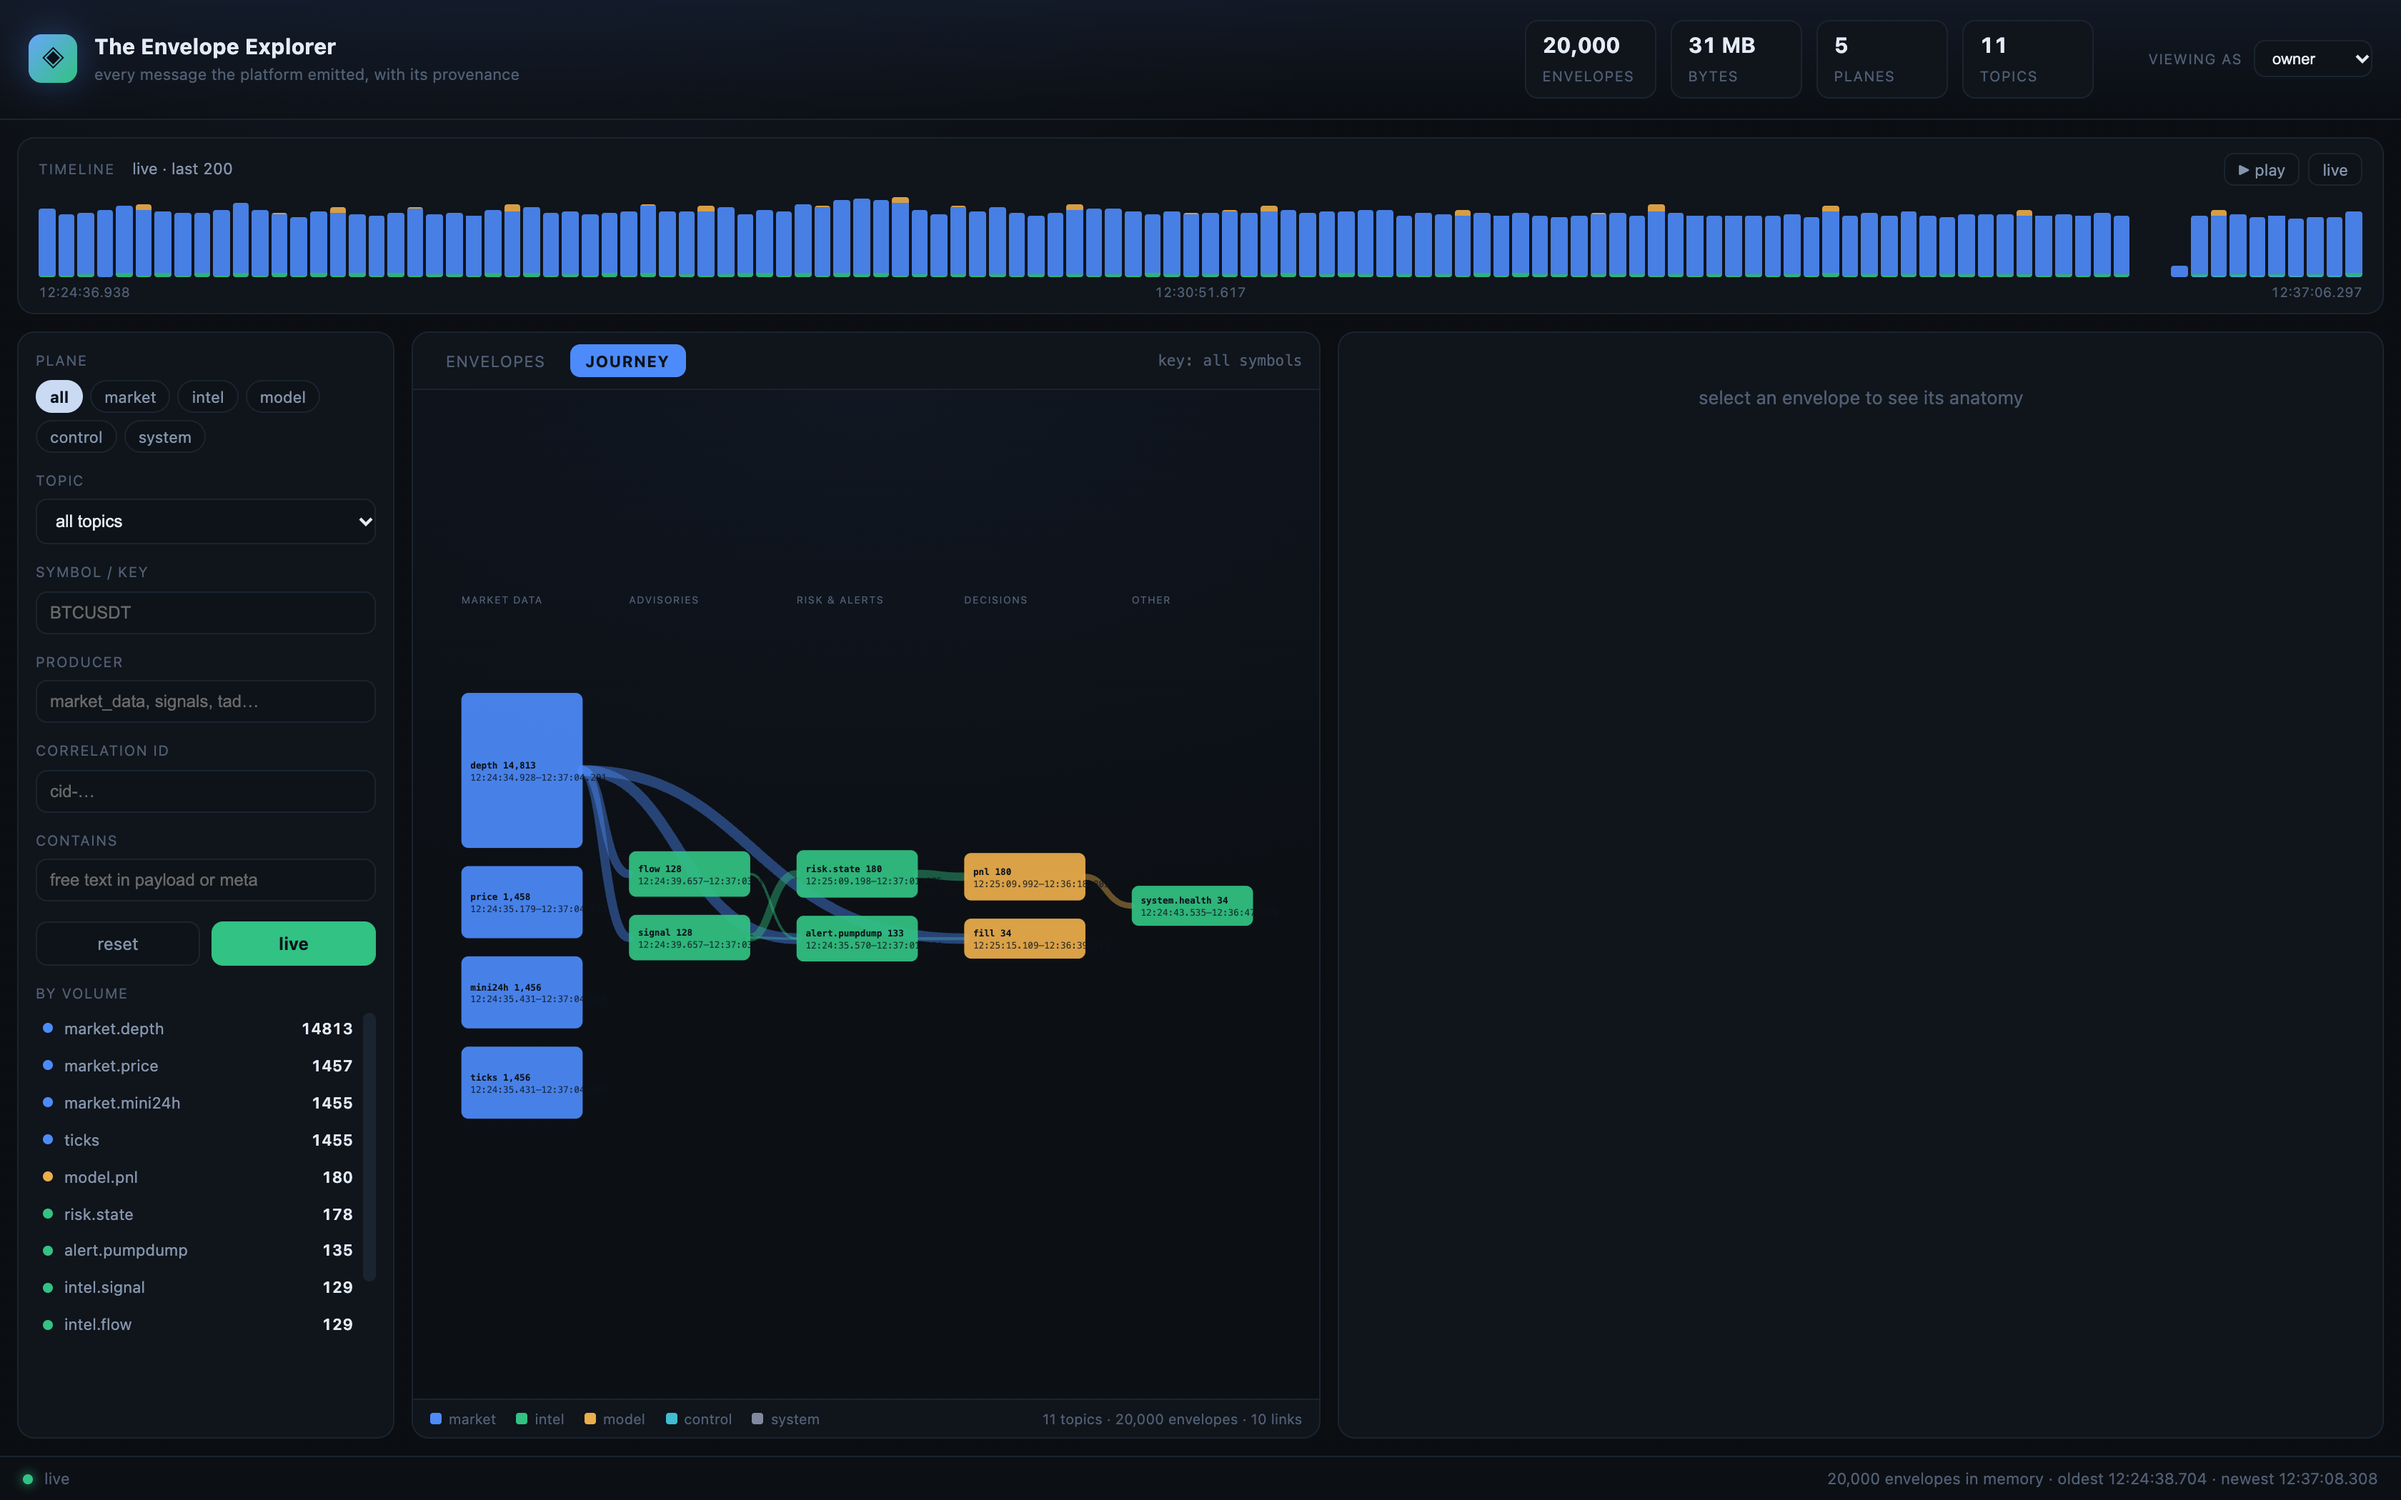
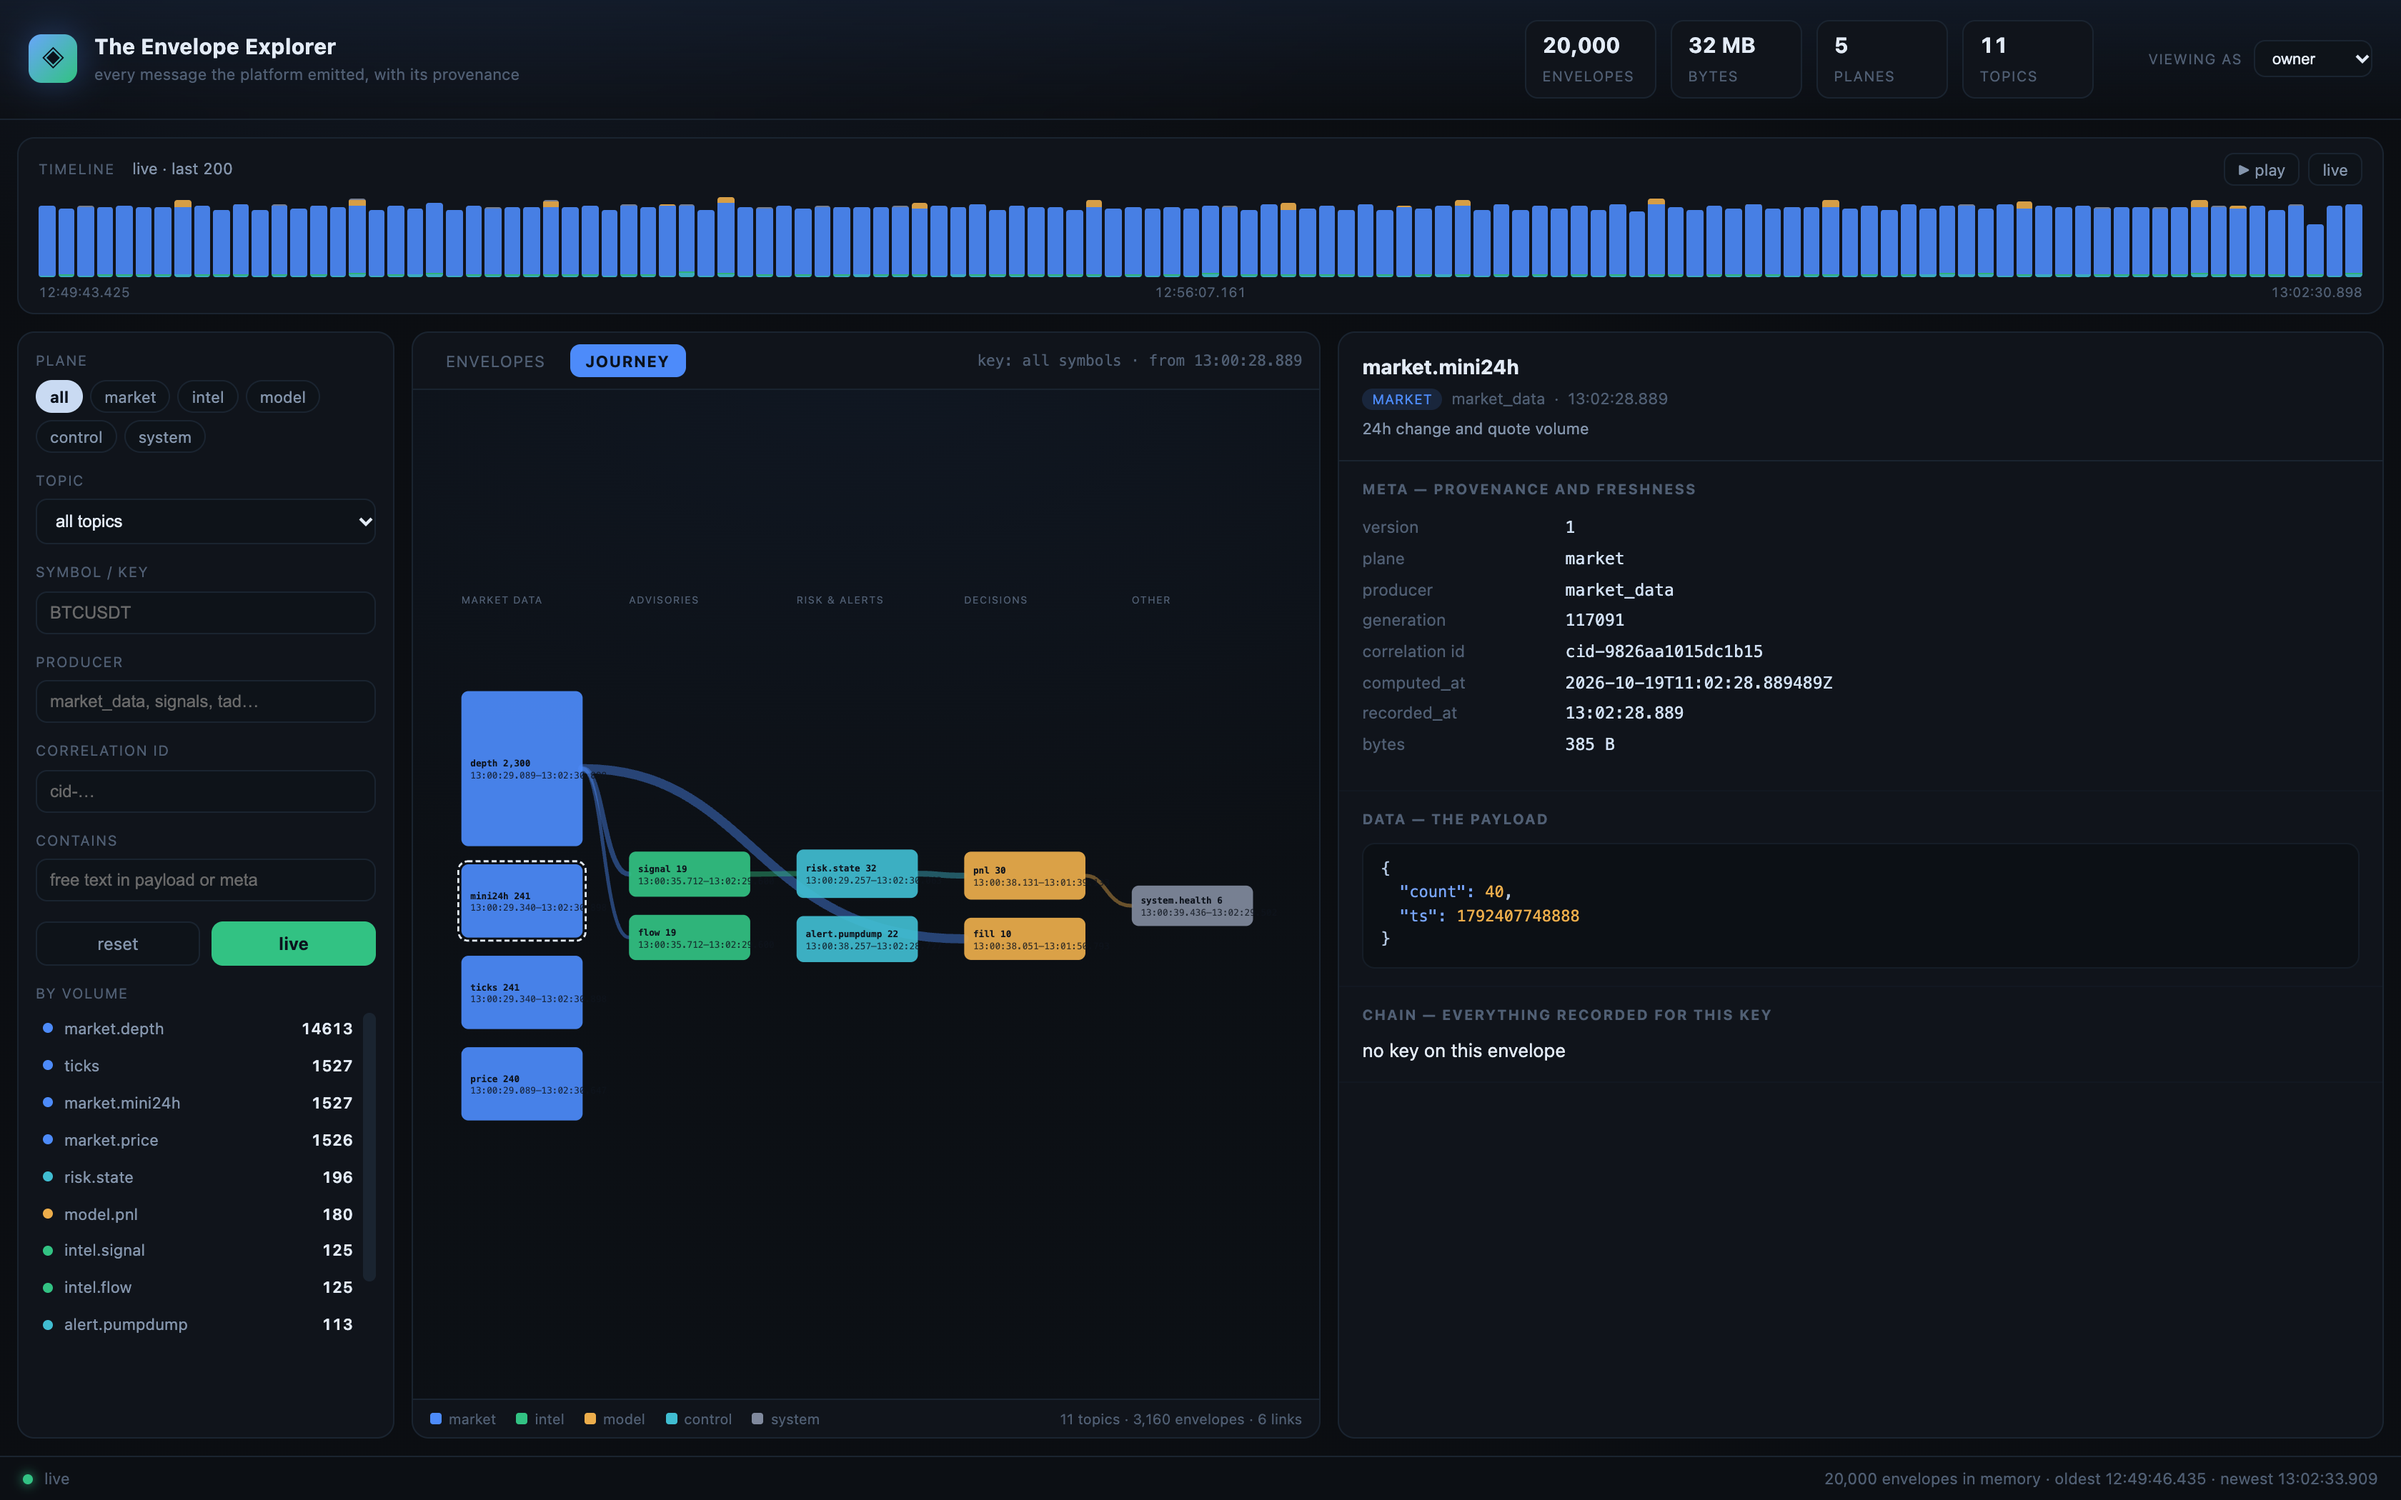
Explorer: the journey starts at the selected point
- /api/flow accepts id= and opens its window at that envelope: two minutes of
  lead-in for context, then five minutes forward on the envelope's symbol.
- The anchor is marked on the node that contains it, and the UI rings it.
- Selecting an envelope re-anchors the flow; double-clicking a node drills
  forward from that node.
- Fixes the earlier gap where the ring compared against a node id that is the
  newest member rather than the anchor itself.

diff --git a/scalp5/core/cmd/envelopeapi/static/app.js b/scalp5/core/cmd/envelopeapi/static/app.js
@@ -219,7 +219,7 @@ async function select(id) {
     } else {
       $("chain").textContent = "no key on this envelope";
     }
-    if (state.view === "journey") renderJourney(d.key || state.journeyKey);
+    if (state.view === "journey") renderJourney(d.id);
   } catch (e) {
     $("detail").innerHTML = '<div class="empty">could not load this envelope</div>';
   }
@@ -351,20 +351,28 @@ const STAGE_LABEL = ["market data", "advisories", "risk & alerts", "decisions", 
 
 /* The flow view: stages as columns, topics as boxes sized by volume, links as
    ribbons whose width is the number of correlations observed. */
-async function renderJourney(keyHint) {
-  const key = keyHint || state.journeyKey || state.key || "";
+/* A journey starts at a point: the selected envelope becomes the anchor, the
+   window opens from its timestamp and runs forward on its symbol. */
+async function renderJourney(anchorId) {
   const params = new URLSearchParams();
-  if (key) params.set("key", key);
-  if (state.from) params.set("from", String(state.from));
-  if (state.to) params.set("to", String(state.to));
+  const anchor = anchorId || state.sel;
+  if (anchor) {
+    params.set("id", String(anchor));
+  } else {
+    if (state.journeyKey) params.set("key", state.journeyKey);
+    if (state.from) params.set("from", String(state.from));
+    if (state.to) params.set("to", String(state.to));
+  }
   const d = await (await fetch("/api/flow?" + params.toString(), { cache: "no-store" })).json();
-  state.journeyKey = key;
-  $("journeyKey").textContent = "key: " + (key || "all symbols");
+  state.journeyKey = d.key || "";
+  const stamp = anchor ? " · from " + fmtTime(d.from) : " · last 5 minutes";
+  $("journeyKey").textContent = "key: " + (d.key || "all symbols") + stamp;
   drawFlow(d);
 }
 
 function drawFlow(d) {
   const nodes = d.nodes || [], links = d.links || [];
+  const anchorIds = new Set(nodes.filter((n) => n.id === d.anchor).map((n) => n.id));
   const svg = $("journeySvg");
   if (!nodes.length) {
     svg.innerHTML = '<text x="450" y="320" text-anchor="middle" fill="#5a6b80" font-size="12">no traffic in this window</text>';
@@ -421,9 +429,21 @@ function drawFlow(d) {
   const stageSvg = stages.map((st, ci) =>
     `<text class="jstage" x="${padX + ci * colW + 14}" y="${padTop - 26}">${STAGE_LABEL[st]}</text>`).join("");
 
-  svg.innerHTML = stageSvg + linkSvg + nodeSvg;
+  // the anchor node — the point the journey starts from — is ringed
+  const anchorRing = Object.values(pos)
+    .filter((p) => p.node.anchor)
+    .map((p) => `<rect x="${p.x - 3}" y="${p.y - 3}" width="${p.w + 6}" height="${p.h + 6}"
+      rx="9" fill="none" stroke="#e6eef8" stroke-width="2" stroke-dasharray="5 3"/>`).join("");
+
+  svg.innerHTML = stageSvg + linkSvg + nodeSvg + anchorRing;
   svg.querySelectorAll(".jnode").forEach((el) => {
     el.onclick = () => select(Number(el.dataset.id));
+  });
+  svg.querySelectorAll(".jnode").forEach((el) => {
+    el.addEventListener("dblclick", (ev) => {
+      ev.stopPropagation();
+      renderJourney(Number(el.dataset.id));
+    });
   });
   const totalCount = nodes.reduce((a, n) => a + n.count, 0);
   $("journeyLegend").innerHTML = ["market", "intel", "model", "control", "system"].map((p) =>

diff --git a/scalp5/core/cmd/envelopeapi/main.go b/scalp5/core/cmd/envelopeapi/main.go
@@ -668,7 +668,28 @@ func main() {
 		key := q.Get("key")
 		fromMS, _ := strconv.ParseInt(q.Get("from"), 10, 64)
 		toMS, _ := strconv.ParseInt(q.Get("to"), 10, 64)
+		anchor, _ := strconv.Atoi(q.Get("id"))
+		horizon, _ := strconv.Atoi(q.Get("horizon_s"))
+		if horizon <= 0 || horizon > 3600 {
+			horizon = 300
+		}
 		docs := st.snapshot()
+		if anchor > 0 {
+			// a journey starts at a point: the window opens at the chosen envelope
+			// and runs forward, on that envelope's symbol when it has one
+			for _, d := range docs {
+				if d.ID == anchor {
+					// a little lead-in so the flow shows what fed the point as well
+					// as what followed it
+					fromMS = d.TS - 120000
+					toMS = d.TS + int64(horizon)*1000
+					if d.Key != "" {
+						key = d.Key
+					}
+					break
+				}
+			}
+		}
 		if fromMS == 0 && toMS == 0 {
 			// default window: the last thirty minutes of retained traffic
 			var newest int64
@@ -690,6 +711,7 @@ func main() {
 			FirstTS int64  `json:"first_ts"`
 			LastTS  int64  `json:"last_ts"`
 			Key     string `json:"key"`
+			Anchor  bool   `json:"anchor,omitempty"`
 		}
 		type flink struct {
 			From  int `json:"from"`
@@ -702,6 +724,7 @@ func main() {
 		}
 		nodes := map[fkey]*fnode{}
 		var order []fkey
+		var anchorKey *fkey
 		var picked []envelopeDoc
 		for _, d := range docs {
 			if d.TS < fromMS || d.TS > toMS {
@@ -717,6 +740,10 @@ func main() {
 				n = &fnode{Topic: d.Topic, Plane: d.Plane, Stage: k.stage, FirstTS: d.TS, LastTS: d.TS, Key: d.Key}
 				nodes[k] = n
 				order = append(order, k)
+			}
+			if anchor > 0 && d.ID == anchor {
+				k := k
+				anchorKey = &k
 			}
 			n.Count++
 			n.Bytes += d.Size
@@ -762,6 +789,9 @@ func main() {
 		}
 		outNodes := make([]fnode, 0, len(order))
 		for _, k := range order {
+			if anchorKey != nil && *anchorKey == k {
+				nodes[k].Anchor = true
+			}
 			outNodes = append(outNodes, *nodes[k])
 		}
 		sort.Slice(outNodes, func(i, j int) bool {
@@ -816,7 +846,7 @@ func main() {
 			outLinks = append(outLinks, flink{From: a.ID, To: b.ID, Count: n})
 		}
 		json.NewEncoder(w).Encode(map[string]any{
-			"from": fromMS, "to": toMS, "key": key,
+			"from": fromMS, "to": toMS, "key": key, "anchor": anchor,
 			"nodes": outNodes, "links": outLinks, "scanned": len(picked),
 		})
 	})
